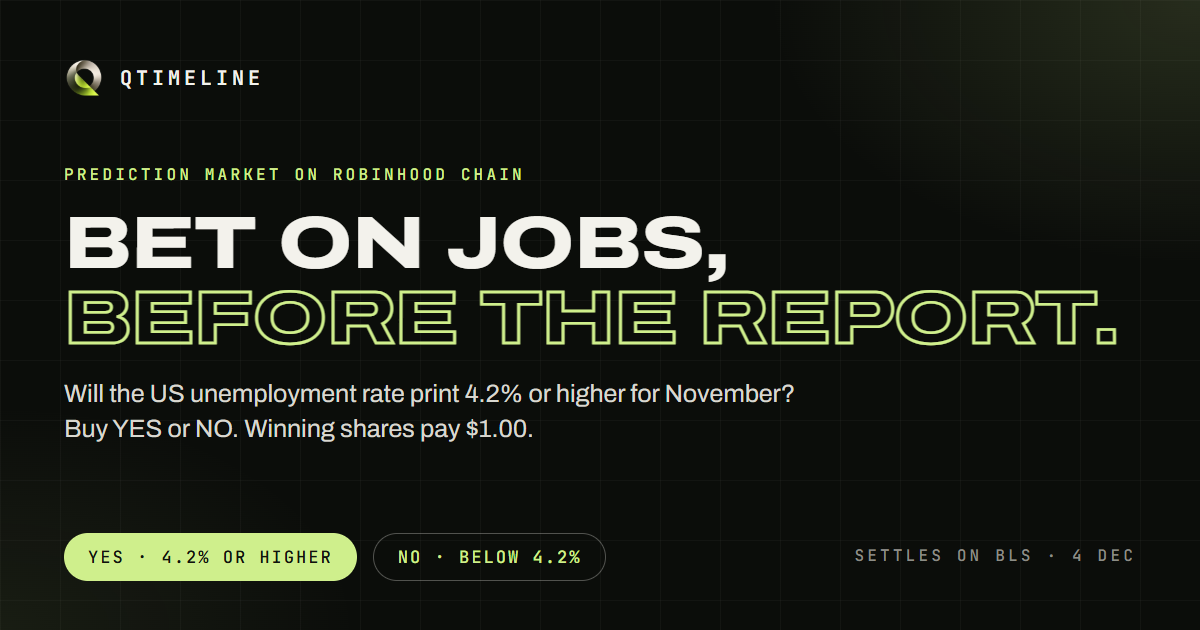
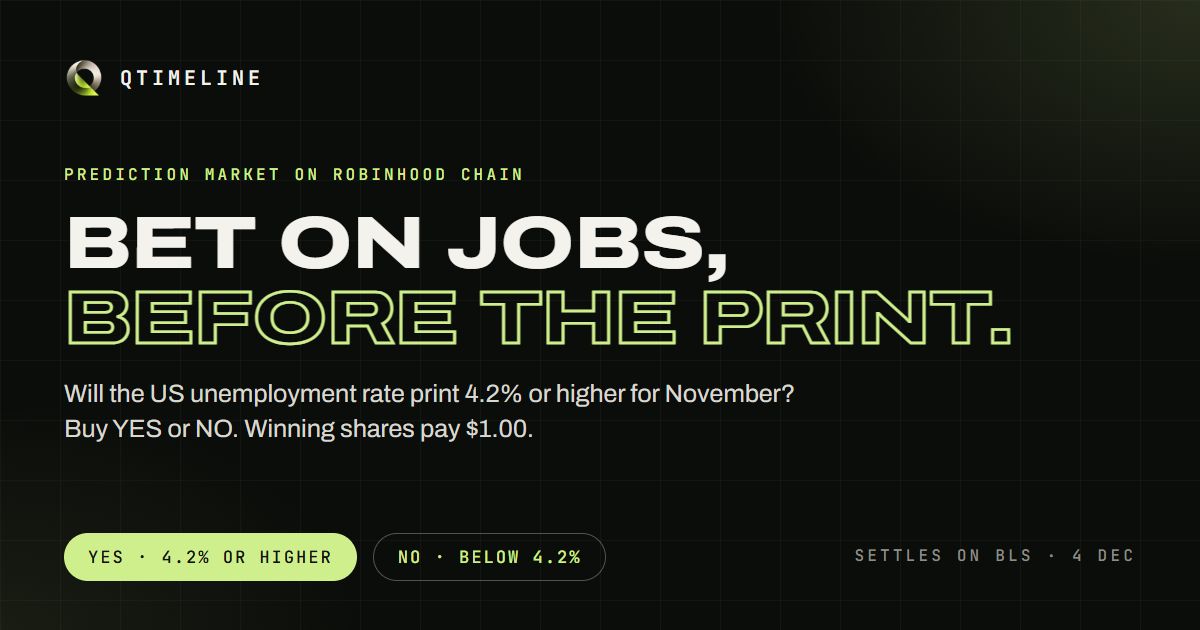
fix(web): shorter unemployment hero line so it fits one screen

Changed region(s): [[0.6167, 0.4524, 0.9558, 0.573]]

diff --git a/apps/web/lib/event-profile.ts b/apps/web/lib/event-profile.ts
@@ -256,7 +256,7 @@ const jobsEngine: EventProfile = {
   copy: {
     ...pceEngine.copy,
     heroA: "Bet on jobs,",
-    heroB: "before the report.",
+    heroB: "before the print.",
     heroLead: `The unemployment rate is the headline number in the monthly US jobs report, and the BLS publishes the ${periodLabel} figure${releaseDate ? ` on ${releaseDate}` : ""}. Buy YES if it prints ${rateText} or higher, NO if lower. A winning share pays $1.00 in USDG, all on-chain with no account needed.`,
     heroStep2: "BLS publishes the number",
     relLead: "No judges and no appeals. The BLS publishes the unemployment rate once, a signed report puts it on-chain, and the market pays out from it.",
@@ -296,7 +296,7 @@ const jobsEngine: EventProfile = {
   formatValue: rate,
   metaTitle: "QTimeline: US unemployment rate market",
   metaDescription: `${jobsQuestion} Buy YES or NO on Robinhood Chain. Each winning share pays $1.00, settled from the first BLS release.`,
-  banner: { url: "/brand/og-jobs.png", width: 1200, height: 630, alt: "QTimeline: Bet on jobs, before the report" },
+  banner: { url: "/brand/og-jobs.png", width: 1200, height: 630, alt: "QTimeline: Bet on jobs, before the print" },
   ruler: { min: Math.max(0, eventBps - 100), max: eventBps + 100, threshold: eventBps, format: rate },
 };
 
